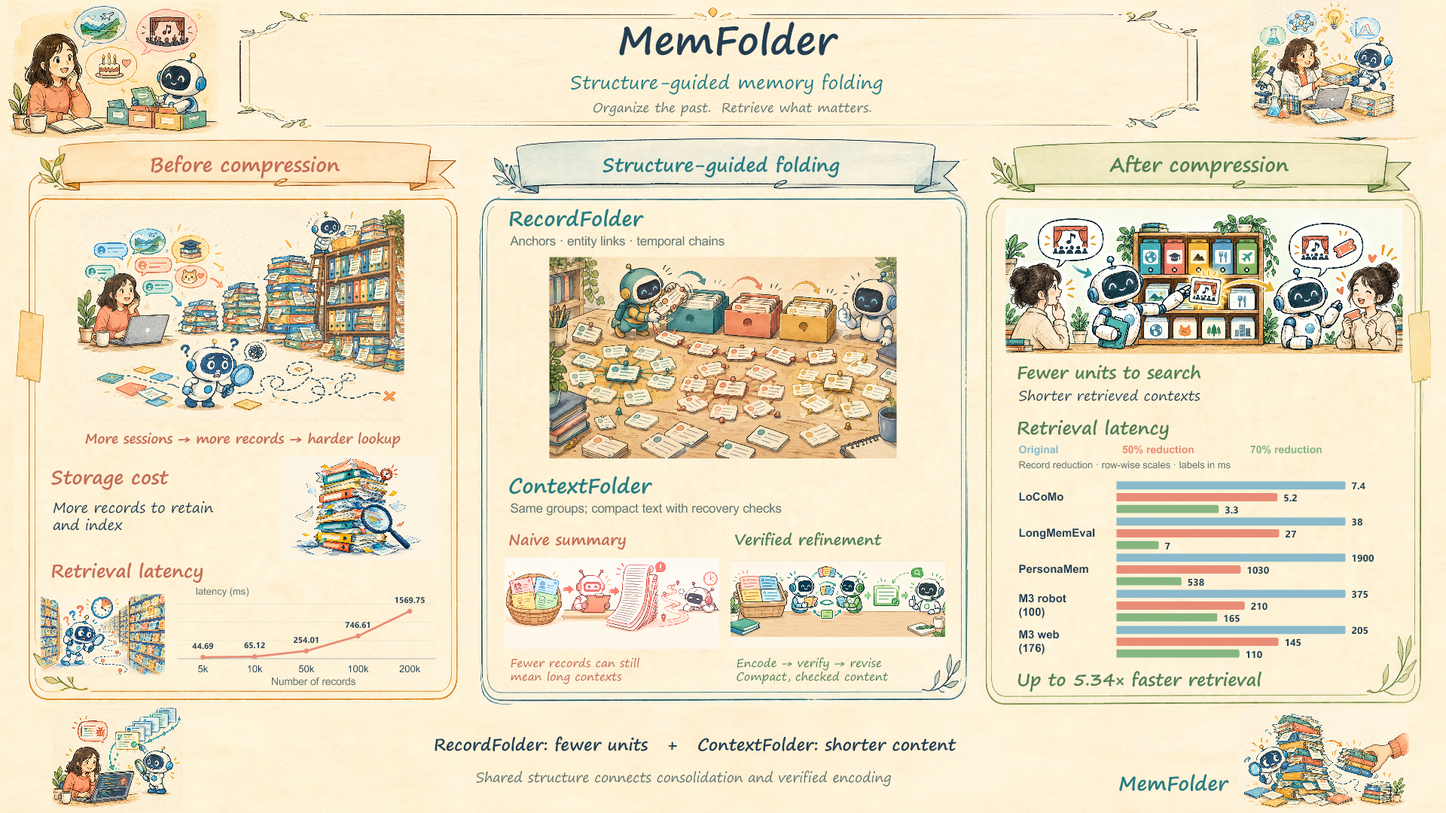
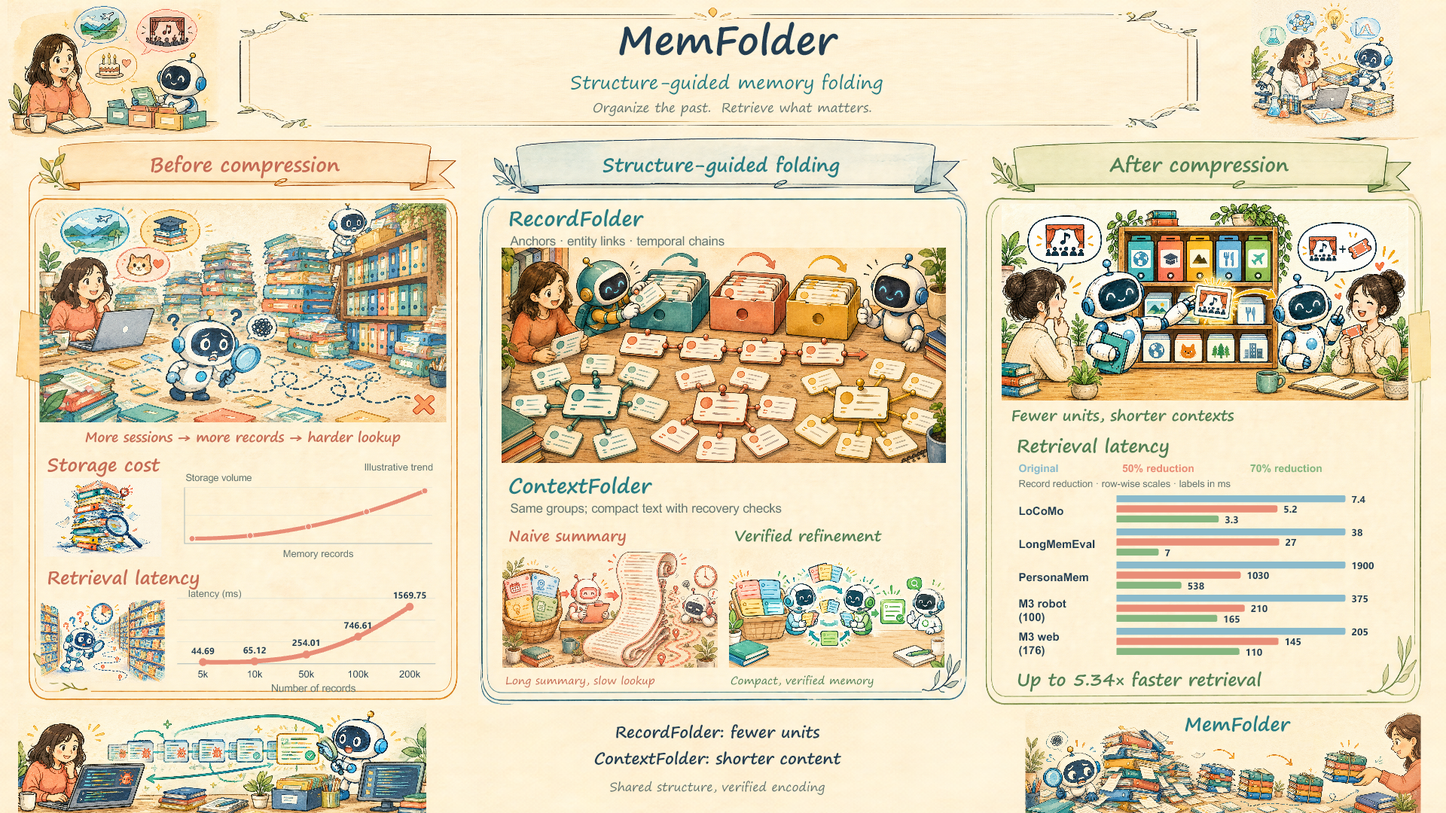
docs: fill overview panels and restore storage growth curve

diff --git a/docs/assets/hero-scene-prompts.md b/docs/assets/hero-scene-prompts.md
@@ -1,0 +1,47 @@
+# Scene refinement prompts
+
+Model requested: `gpt-image-2`. Quality requested: `high`.
+
+Each request uses the original scene as its content reference and the preceding MemFolder figure as its style reference. The final scene layers preserve their aspect ratios; footer paper bleed and small foreground margins are cropped in the slide.
+
+## growth-wide
+
+Use case: illustrated academic figure, targeted asset recomposition. Reference 1 is the scene to redesign; reference 2 is the finished MemFolder framework and is a PALETTE / TEXTURE / LINEWORK reference only. Generate ONLY the requested scene, never the surrounding three-column figure or its headings. Match the existing cream-white round robot, dark navy face, blue ears, friendly expressions, young woman with brown wavy hair where requested. Preserve the scientific/story meaning of the first reference. Warm light ivory paper (#FFF7E7 family), natural watercolor pigment, thin confident navy ink, muted teal, coral, honey yellow, sage. Much larger and clearer foreground objects, coherent continuous staging, tight edge-to-edge composition. Painted surroundings must reach both side edges; avoid big cream side margins and empty foreground. All essential characters and causal gestures are fully visible. NO text, letters, numeric labels, plots, logos, watermark or new scientific claims. Titles and data are added separately as editable objects. No hard photo border or inset white rectangle. The paper tone must harmonize with the second reference. Do not simply stretch or shrink the old illustration.
+
+Redesign the MEMORY GROWTH scene to densely fill this 2048x1104 wide canvas. The woman sits at a laptop on the far left, with three compact memory bubbles above (travel, learning, personal preferences). Increasing piles of teal, coral, blue and mustard folders extend continuously across the whole width toward a tall overloaded bookcase at the right edge. A small filing robot is on the upper-right shelf. The confused retrieval robot with magnifying glass is large in the bottom middle, connected to a clearly visible meandering navy dashed search path ending in a coral cross at the lower right. Keep the woman and retrieval robot as distinct characters. Make foreground stacks, the laptop, robot, path and shelving occupy about 92% of the canvas. No large blank left/right borders or big empty patch under the scene. This is a close, wide shot that fits a whole column width; use the corners as part of the room. Keep the warm ivory background light.
+
+## recordfolder-wide
+
+Use case: illustrated academic figure, targeted asset recomposition. Reference 1 is the scene to redesign; reference 2 is the finished MemFolder framework and is a PALETTE / TEXTURE / LINEWORK reference only. Generate ONLY the requested scene, never the surrounding three-column figure or its headings. Match the existing cream-white round robot, dark navy face, blue ears, friendly expressions, young woman with brown wavy hair where requested. Preserve the scientific/story meaning of the first reference. Warm light ivory paper (#FFF7E7 family), natural watercolor pigment, thin confident navy ink, muted teal, coral, honey yellow, sage. Much larger and clearer foreground objects, coherent continuous staging, tight edge-to-edge composition. Painted surroundings must reach both side edges; avoid big cream side margins and empty foreground. All essential characters and causal gestures are fully visible. NO text, letters, numeric labels, plots, logos, watermark or new scientific claims. Titles and data are added separately as editable objects. No hard photo border or inset white rectangle. The paper tone must harmonize with the second reference. Do not simply stretch or shrink the old illustration.
+
+Redesign the RecordFolder illustration as a close-in, dense horizontal scene at 2048x992. Fill nearly the entire canvas with the meaningful memory organization story. Three LARGE complementary clusters of real memory cards in teal, coral and mustard spread across the foreground. Every cluster has a visibly prominent central anchor card and a small number of adjacent connected memory cards. A clear coral temporal chain connects event cards across the middle. Immediately behind the clusters sit three organized card folders in matching colors. A small teal robot on the far left folds related cards into their folder, and a cream robot on the far right points approvingly at the organized units. Only a little edge greenery / books, no room-wide background, no giant empty wooden table in the foreground, no blank title strip above the picture. Group cards closer together so the three clusters fill the available width. Folder storage, graph structure and temporal chain must remain visually distinguishable. Focus on readable bigger cards and clear grouping, not dozens of tiny scattered cards.
+
+## context-naive-dense
+
+Use case: illustrated academic figure, targeted asset recomposition. Reference 1 is the scene to redesign; reference 2 is the finished MemFolder framework and is a PALETTE / TEXTURE / LINEWORK reference only. Generate ONLY the requested scene, never the surrounding three-column figure or its headings. Match the existing cream-white round robot, dark navy face, blue ears, friendly expressions, young woman with brown wavy hair where requested. Preserve the scientific/story meaning of the first reference. Warm light ivory paper (#FFF7E7 family), natural watercolor pigment, thin confident navy ink, muted teal, coral, honey yellow, sage. Much larger and clearer foreground objects, coherent continuous staging, tight edge-to-edge composition. Painted surroundings must reach both side edges; avoid big cream side margins and empty foreground. All essential characters and causal gestures are fully visible. NO text, letters, numeric labels, plots, logos, watermark or new scientific claims. Titles and data are added separately as editable objects. No hard photo border or inset white rectangle. The paper tone must harmonize with the second reference. Do not simply stretch or shrink the old illustration.
+
+Recompose the naive summarization scene into a DENSE 5:3 panel at 1600x960, filling both width and height. From left to right: a basket of 4 colorful original memory cards, a coral-accent robot writing a summary, a LARGE long unfurled scroll, and a small frustrated retrieval robot with a maze-like route and clock. The long summary scroll is the dominant shape, curling through the upper and central canvas to use vertical space, making this fuller than the old extremely flat horizontal strip. A thick coral progression arrow connects basket to writer to scroll. Keep the four semantic steps clear and close together. The basket may touch the left safe margin and the tired robot may approach the right safe margin, but don't crop faces or hands. No blank upper band, no large blank side gutters, no empty floor. Fill around 90% of the panel with story elements, light warm ivory background. Draw only abstract strokes on the scroll, no readable words. Preserve the warning/coral mood.
+
+## context-refine-dense
+
+Use case: illustrated academic figure, targeted asset recomposition. Reference 1 is the scene to redesign; reference 2 is the finished MemFolder framework and is a PALETTE / TEXTURE / LINEWORK reference only. Generate ONLY the requested scene, never the surrounding three-column figure or its headings. Match the existing cream-white round robot, dark navy face, blue ears, friendly expressions, young woman with brown wavy hair where requested. Preserve the scientific/story meaning of the first reference. Warm light ivory paper (#FFF7E7 family), natural watercolor pigment, thin confident navy ink, muted teal, coral, honey yellow, sage. Much larger and clearer foreground objects, coherent continuous staging, tight edge-to-edge composition. Painted surroundings must reach both side edges; avoid big cream side margins and empty foreground. All essential characters and causal gestures are fully visible. NO text, letters, numeric labels, plots, logos, watermark or new scientific claims. Titles and data are added separately as editable objects. No hard photo border or inset white rectangle. The paper tone must harmonize with the second reference. Do not simply stretch or shrink the old illustration.
+
+Recompose the verified refinement scene into a DENSE 5:3 panel at 1600x960. Large basket of colorful source cards at far left. Two complementary cream robots, one teal and one sage, dominate the middle and exchange source/fact cards along a BIG clearly visible teal circular two-way loop. Place some circulating cards above and below their hands to occupy the canvas vertically. At far right, a COMPACT green checked memory card and a small happy retrieval robot indicate the result. A short green arrow leads from the exchange loop to this compact result. Keep source basket, two-agent verification loop, and compact output as three tightly connected zones. No blank upper banner, no large empty sides, no extended empty tabletop at the bottom. Characters and cards almost fill the picture height with a thin breathing margin. Warm ivory paper and watercolor grain matching the full layout reference. The result should clearly pair with the coral naive-summary image, but use teal/sage success accents.
+
+## retrieval-taller
+
+Use case: illustrated academic figure, targeted asset recomposition. Reference 1 is the scene to redesign; reference 2 is the finished MemFolder framework and is a PALETTE / TEXTURE / LINEWORK reference only. Generate ONLY the requested scene, never the surrounding three-column figure or its headings. Match the existing cream-white round robot, dark navy face, blue ears, friendly expressions, young woman with brown wavy hair where requested. Preserve the scientific/story meaning of the first reference. Warm light ivory paper (#FFF7E7 family), natural watercolor pigment, thin confident navy ink, muted teal, coral, honey yellow, sage. Much larger and clearer foreground objects, coherent continuous staging, tight edge-to-edge composition. Painted surroundings must reach both side edges; avoid big cream side margins and empty foreground. All essential characters and causal gestures are fully visible. NO text, letters, numeric labels, plots, logos, watermark or new scientific claims. Titles and data are added separately as editable objects. No hard photo border or inset white rectangle. The paper tone must harmonize with the second reference. Do not simply stretch or shrink the old illustration.
+
+Recompose this successful memory retrieval scene into a TALLER, full-width horizontal panel at 2048x992, not the original extremely wide short banner. Large central organized bookcase with two visible tiers of teal/coral/mustard/blue/sage binders and memory cards. The same woman on the left asks about a concert (music and stage pictogram in speech bubble), while her assistant takes a glowing matching concert card from the shelf. On the right, the assistant helps the happy woman with a concert ticket; a bubble connects the remembered event and ticket. Make the people, assistant robots and bookcase visibly TALLER and larger so the scene fills the lower half as well as the top; a shallow desk edge and little plants can anchor the bottom. The whole room occupies the available width without ivory side strips. Preserve the same friendly characters and watercolor linework. Leave only a narrow margin, no caption box underneath, no empty lower band. Clear happy causal retrieval story.
+
+## footer-debug-panorama
+
+Use case: illustrated academic figure, targeted asset recomposition. Reference 1 is the scene to redesign; reference 2 is the finished MemFolder framework and is a PALETTE / TEXTURE / LINEWORK reference only. Generate ONLY the requested scene, never the surrounding three-column figure or its headings. Match the existing cream-white round robot, dark navy face, blue ears, friendly expressions, young woman with brown wavy hair where requested. Preserve the scientific/story meaning of the first reference. Warm light ivory paper (#FFF7E7 family), natural watercolor pigment, thin confident navy ink, muted teal, coral, honey yellow, sage. Much larger and clearer foreground objects, coherent continuous staging, tight edge-to-edge composition. Painted surroundings must reach both side edges; avoid big cream side margins and empty foreground. All essential characters and causal gestures are fully visible. NO text, letters, numeric labels, plots, logos, watermark or new scientific claims. Titles and data are added separately as editable objects. No hard photo border or inset white rectangle. The paper tone must harmonize with the second reference. Do not simply stretch or shrink the old illustration.
+
+Expand the debugging story HORIZONTALLY into a long panoramic footer scene. Canvas 3072x1024. IMPORTANT COMPOSITING: all important visible objects stay within y=128..896, with plain matching ivory paper in the top and bottom 128px only; those two thin strips will be cropped. The central 3072x768 strip is packed as a coherent 4:1 panorama from edge to edge. At left, the same coral-sweater woman works on a LARGE laptop showing abstract code and a small coral bug. Across the center, a long sequence of older code-version cards, connected by a teal timeline and branching update marks, stretches horizontally toward the right. A large memory assistant robot at the right traces the historic useful version with a magnifying glass and points a clear return arrow toward the woman's laptop. Use small stacks of notebooks, archived folders and a second monitor along the desk to connect the left and right areas. The scene is continuous along the entire width, not two tiny figures isolated in large blank paper. No words or dates, only abstract code and version icons. Keep the faces fully visible inside the central strip.
+
+## footer-burden-panorama
+
+Use case: illustrated academic figure, targeted asset recomposition. Reference 1 is the scene to redesign; reference 2 is the finished MemFolder framework and is a PALETTE / TEXTURE / LINEWORK reference only. Generate ONLY the requested scene, never the surrounding three-column figure or its headings. Match the existing cream-white round robot, dark navy face, blue ears, friendly expressions, young woman with brown wavy hair where requested. Preserve the scientific/story meaning of the first reference. Warm light ivory paper (#FFF7E7 family), natural watercolor pigment, thin confident navy ink, muted teal, coral, honey yellow, sage. Much larger and clearer foreground objects, coherent continuous staging, tight edge-to-edge composition. Painted surroundings must reach both side edges; avoid big cream side margins and empty foreground. All essential characters and causal gestures are fully visible. NO text, letters, numeric labels, plots, logos, watermark or new scientific claims. Titles and data are added separately as editable objects. No hard photo border or inset white rectangle. The paper tone must harmonize with the second reference. Do not simply stretch or shrink the old illustration.
+
+Expand the memory-burden relief story HORIZONTALLY into a long panoramic footer illustration. Canvas 3072x1024. IMPORTANT COMPOSITING: all key story elements and faces must stay within y=128..896; top and bottom 128px are quiet ivory bleed that will be cropped. The central 3072x768 strip is a continuous 4:1 landscape filling left to right. On the left a large worried cream robot with navy face searches with a magnifier among a sprawling wide set of disorganized colored binders and loose memory cards. Across the center papers and folders form a clear left-to-right flow from messy piles to fewer neatly tied compact bundles. On the far right, a friendly coral-sleeved human hand lifts one compact bundle, visibly relieving the robot. Keep the robot face, piles, arrows and helping hand readable at footer size. Add low stacks across the foreground to occupy the width; no giant empty background. Leave a small quiet patch near the UPPER CENTER of the cropped strip for an editable MemFolder wordmark (the word will be added later, do not render it). No other empty gaps.

diff --git a/docs/assets/README.md b/docs/assets/README.md
@@ -2,8 +2,9 @@
 
 - `memfolder-hero.png` presents the paper in three columns: memory growth before
   compression, RecordFolder / ContextFolder, and retrieval after compression.
-  The warm watercolor illustrations, assistant characters and source numerical
-  labels were supplied by the project authors. The README preview is 1920 × 1080.
+  The warm watercolor style, assistant characters and source numerical labels
+  originate in the authors' artwork. Seven scenes were recomposed for their panel
+  dimensions with GPT-IMAGE-2. The README preview is 1920 × 1080.
 - `memfolder-architecture.svg` describes the software interfaces. It is editable
   SVG source with an accessible description. Projection and feature refresh also
   occur between compression rounds; native materialization is the final output
@@ -17,15 +18,18 @@ size **3840 × 2160**. The response also identified `gpt-image-2`; the downloade
 plate has those pixel dimensions. The API key is not stored in this repository.
 
 The generated paper, ribbons, frames and upper-left vignette were placed as
-separate layers. The other three corner stories and the method scenes reuse the
-author-supplied illustrations. Titles and all six data charts were authored as
-editable PowerPoint objects, then rendered for the README. This avoids asking an
-image model to reproduce scientific numbers or enforce exact text placement.
+separate layers. A subsequent refinement used the same configured model and high
+quality for seven scenes: memory growth, RecordFolder, two ContextFolder panels,
+successful retrieval, a panoramic debugging story and a panoramic burden-relief
+story. The top-right research vignette retains the author-supplied artwork.
+Titles and all six data charts were authored as editable PowerPoint objects,
+then rendered for the README. The storage-growth curve is an editable schematic.
 
 Academic layout examples informed visual hierarchy and spacing; their figures,
 labels, logos and research results are not reproduced in the final artwork.
 The design uses ivory paper, navy lettering, coral, teal and sage accents.
-See [the generation prompt](hero-prompt.txt) and
+See [the framework prompt](hero-prompt.txt),
+[the scene refinement prompts](hero-scene-prompts.md) and
 [the supplied chart values](hero-data.json).
 
 ## Data interpretation
@@ -34,7 +38,8 @@ The latency values and 5.34× callout reproduce the supplied manuscript artwork;
 they are not new measurements from this refactored release. The benchmark bars
 have separate scales for each row, with labels in milliseconds. The 5.34× maximum
 is manuscript-reported and should not be reconstructed from rounded bar labels.
-The storage-cost illustration is qualitative.
+The storage-cost curve is explicitly labeled as an illustrative trend. It has
+no numeric y-axis, measurement units or fabricated storage observations.
 
 The editable export was checked for package integrity, slide bounds, font policy,
 six native charts with embedded data workbooks, and successful reimport/rendering.
